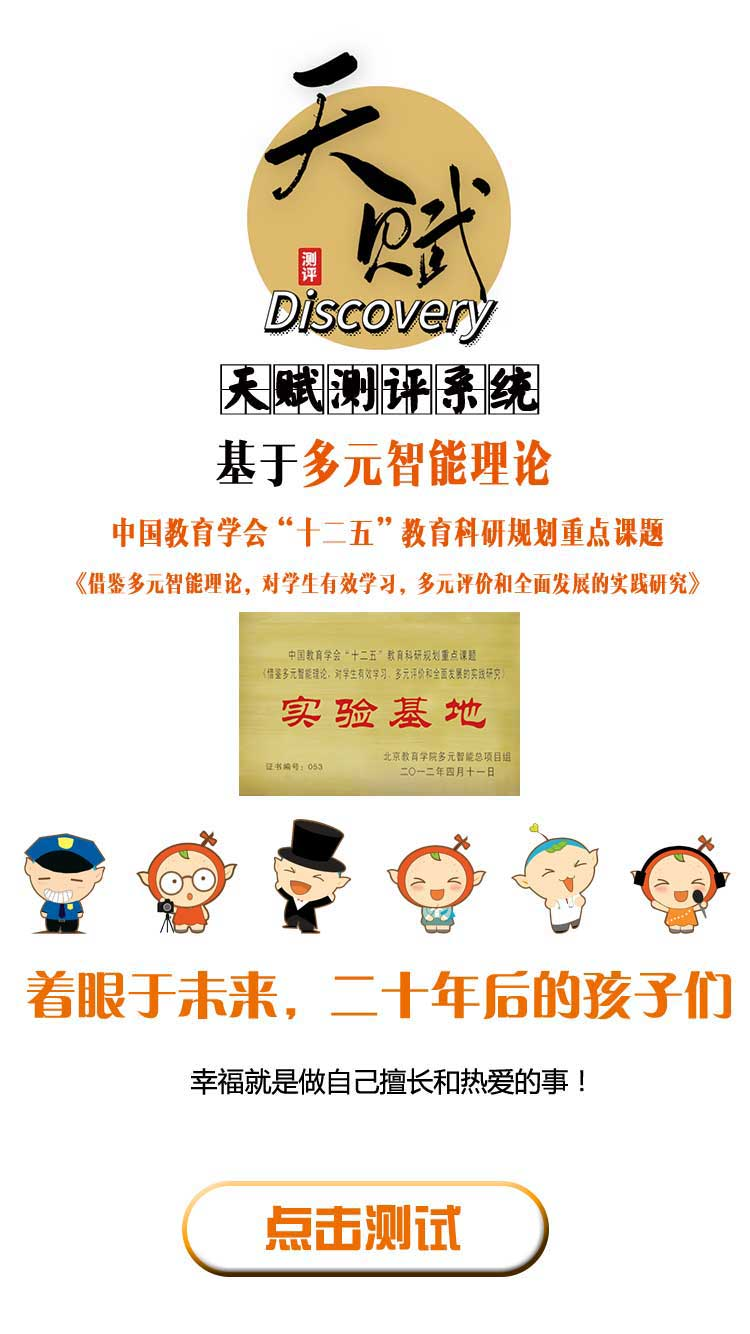
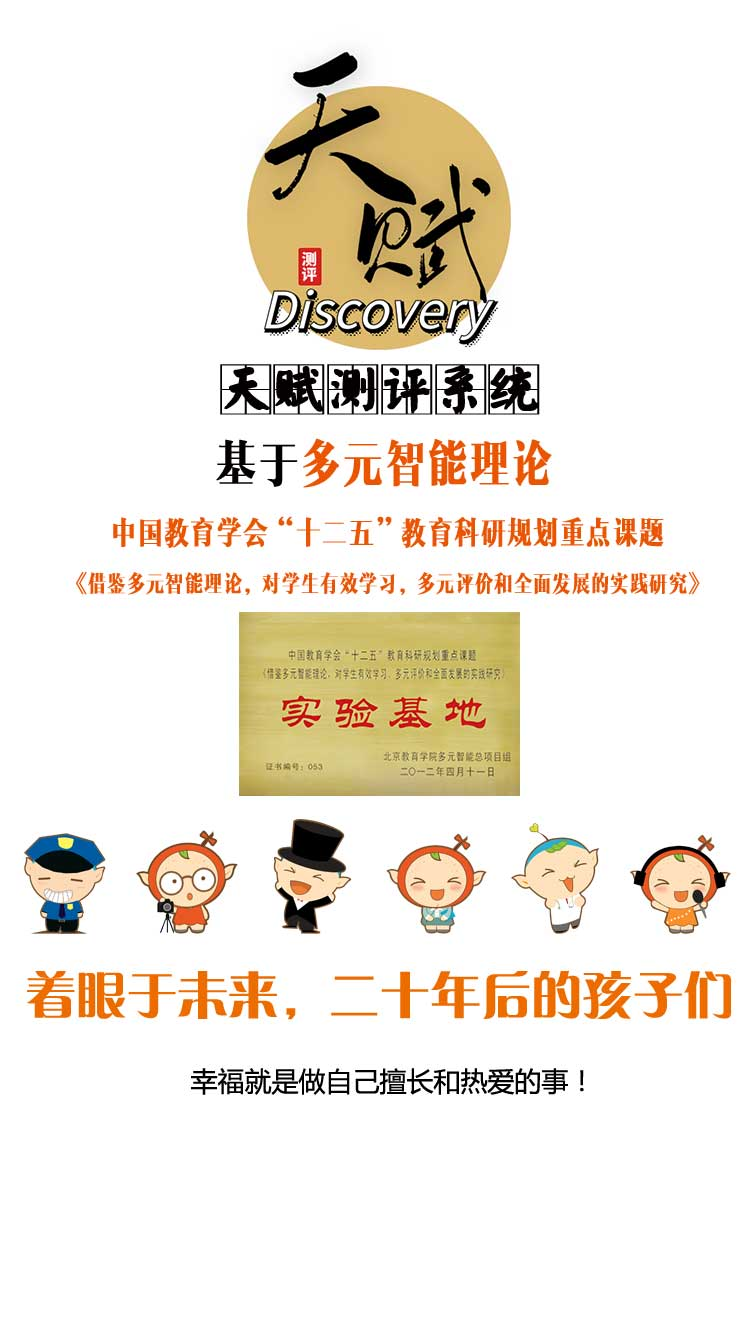
修改样式

Changed region(s): [[0.2453, 0.8606, 0.7053, 0.9835], [0.6747, 0.8913, 0.736, 0.9528]]

diff --git a/pages/question/index.js b/pages/question/index.js
@@ -88,6 +88,15 @@ class Page extends React.Component {
     // Router.replace(`/question?qidx=${this.questionIndex - 1}`);
   };
 
+  test = () => {
+    return new Promise((resolve, reject) => {
+      setTimeout(() => {
+        console.log('in test')
+        resolve(1)
+      }, 800);
+    })
+  }
+
   handleNext = async () => {
     try {
       const { questionIndex, answerMap, questionList } = this.state;
@@ -102,6 +111,7 @@ class Page extends React.Component {
         this.setState({
           loading: true
         });
+        // await this.test()
         await agent.Question.answerList({
           answerList
         });
@@ -118,9 +128,9 @@ class Page extends React.Component {
     } catch (e) {
       console.log(e);
     } finally {
-      this.setState({
-        loading: false
-      });
+      // this.setState({
+      //   loading: false
+      // });
     }
     // console.log(this.questionIndex + 1);
     // Router.push(`/question?qidx=${this.questionIndex + 1}`);
@@ -177,15 +187,18 @@ class Page extends React.Component {
           />{' '}
         </div>{' '}
         {/* <div className={styles.number}> {questionIndex + 1} / {questionList.length}</div> */}{' '}
-        <div className={styles.card}>
+        <div
+          className={styles.card}
+          style={
+            loading ? { pointerEvents: 'none' } : { pointerEvents: 'auto' }
+          }
+        >
           <div className={styles.card__body}>
             <div className={styles.question}> {question.name} </div>{' '}
             <div
               onClick={this.handleChoose.bind(this, question, 'A')}
               className={
-                'A' === selected
-                  ? styles.answer__chosen
-                  : styles.answer
+                'A' === selected ? styles.answer__chosen : styles.answer
               }
             >
               完全能做到{' '}
@@ -193,9 +206,7 @@ class Page extends React.Component {
             <div
               onClick={this.handleChoose.bind(this, question, 'B')}
               className={
-                'B' === selected
-                  ? styles.answer__chosen
-                  : styles.answer
+                'B' === selected ? styles.answer__chosen : styles.answer
               }
             >
               有时能做到， 有时不能做到{' '}
@@ -203,9 +214,7 @@ class Page extends React.Component {
             <div
               onClick={this.handleChoose.bind(this, question, 'C')}
               className={
-                'C' === selected
-                  ? styles.answer__chosen
-                  : styles.answer
+                'C' === selected ? styles.answer__chosen : styles.answer
               }
             >
               完全做不到{' '}
@@ -213,9 +222,7 @@ class Page extends React.Component {
             <div
               onClick={this.handleChoose.bind(this, question, 'D')}
               className={
-                'D' === selected
-                  ? styles.answer__chosen
-                  : styles.answer
+                'D' === selected ? styles.answer__chosen : styles.answer
               }
             >
               不清楚{' '}
@@ -232,7 +239,14 @@ class Page extends React.Component {
             <div className={styles.text}>上一题 </div>{' '}
           </div>{' '}
           <div className={styles['action-wp']} onClick={this.handleNext}>
-            <div className={styles.text}>下一题 </div>{' '}
+            <div
+              className={styles.text}
+              style={
+                loading ? { pointerEvents: 'none' } : { pointerEvents: 'auto' }
+              }
+            >
+              下一题{' '}
+            </div>{' '}
             <img
               src="/static/img/prev.png"
               className={classNames(styles.icon, styles.next)}

diff --git a/pages/index/index.js b/pages/index/index.js
@@ -49,8 +49,8 @@ class Page extends React.Component {
     const data = await agent.System.getGroup(id);
     this.setState({
       cover: data.coverpicPath,
-      host: window.location.protocol + '//' + window.location.host,
-    })
+      host: window.location.protocol + '//' + window.location.host
+    });
     // setCookie('cover', data.coverpicPath);
     setCookie('adpath', data.adpicPath);
     setCookie('adurl', data.adurl);
@@ -80,11 +80,13 @@ class Page extends React.Component {
       <>
         {/*<Button type="primary" onClick={this.handleTest}>点击测试</Button>*/}
         {loading && <ActivityIndicator toast text="正在加载" />}
-        <img
-          onClick={this.handleTest}
-          className={styles.page}
-          src={host ? `${host}:8360${cover}` : '/static/img/page/page1.jpg'}
-        />
+        <div className={styles.wp} onClick={this.handleTest}>
+          <img
+            className={styles.page}
+            src={host ? `${host}:8360${cover}` : '/static/img/page/page1.jpg'}
+          />
+          <img className={styles.start} src="/static/img/page/btn_start.png" />
+        </div>
       </>
     );
   }

diff --git a/pages/baby/index.js b/pages/baby/index.js
@@ -299,7 +299,7 @@ class Page extends React.Component {
             </div>{' '}
           </div>{' '}
         </div>{' '}
-        <div className={styles.tips} style={hasInfo ? {display: 'block'} : {display: 'none'}}>
+        <div className={styles.tips} style={hasInfo ? {display: 'flex'} : {display: 'none'}}>
           <div>* 每个年龄段仅可测试一次</div>
           <div>您的宝宝下个可测年龄段为{nextlabel}</div>
         </div>

diff --git a/pages/index/index.less b/pages/index/index.less
@@ -1,3 +1,8 @@
+.wp {
+  position: relative;
+  width: 100vw;
+  height: 100vh;
+}
 .page {
   // width: 100%;
   // vertical-align: middle;
@@ -27,4 +32,14 @@
     font-size: 12px;
     margin-left: 10px;
   }
+}
+.start {
+  display: flex;
+  justify-content: center;
+  align-items: center;
+  position: absolute;
+  bottom: 40px;
+  height: 40px;
+  left: 50%;
+  transform: translateX(-50%);
 }

diff --git a/pages/summary/1/index.less b/pages/summary/1/index.less
@@ -74,7 +74,8 @@
 
 .sectionBody {
   background: #fff;
-  border-radius: 5px;
+  border-radius: 10px;
+  box-shadow: 0 0 7px rgba(0, 0, 0, 0.3);
   margin: -50px 15px 0 15px;
   padding: 0 20px 20px 20px;
 }
@@ -113,6 +114,7 @@
     position: relative;
     background: #fff;
     border-radius: 5px;
+    box-shadow: 0 0 7px rgba(0, 0, 0, 0.3);
     .attr {
       padding-left: 30px;
     }

diff --git a/pages/profession/index.less b/pages/profession/index.less
@@ -33,6 +33,7 @@
   border-radius: 10px;
   background: #fff;
   margin-top: 20px;
+  box-shadow: 0 0 7px rgba(0, 0, 0, 0.3);
 
   .title {
     color: white;

diff --git a/pages/report/index.less b/pages/report/index.less
@@ -29,6 +29,7 @@
   border-radius: 10px;
   background: #fff;
   margin-top: 20px;
+  box-shadow: 0 0 7px rgba(0, 0, 0, 0.3);
 
   .title {
     color: white;
